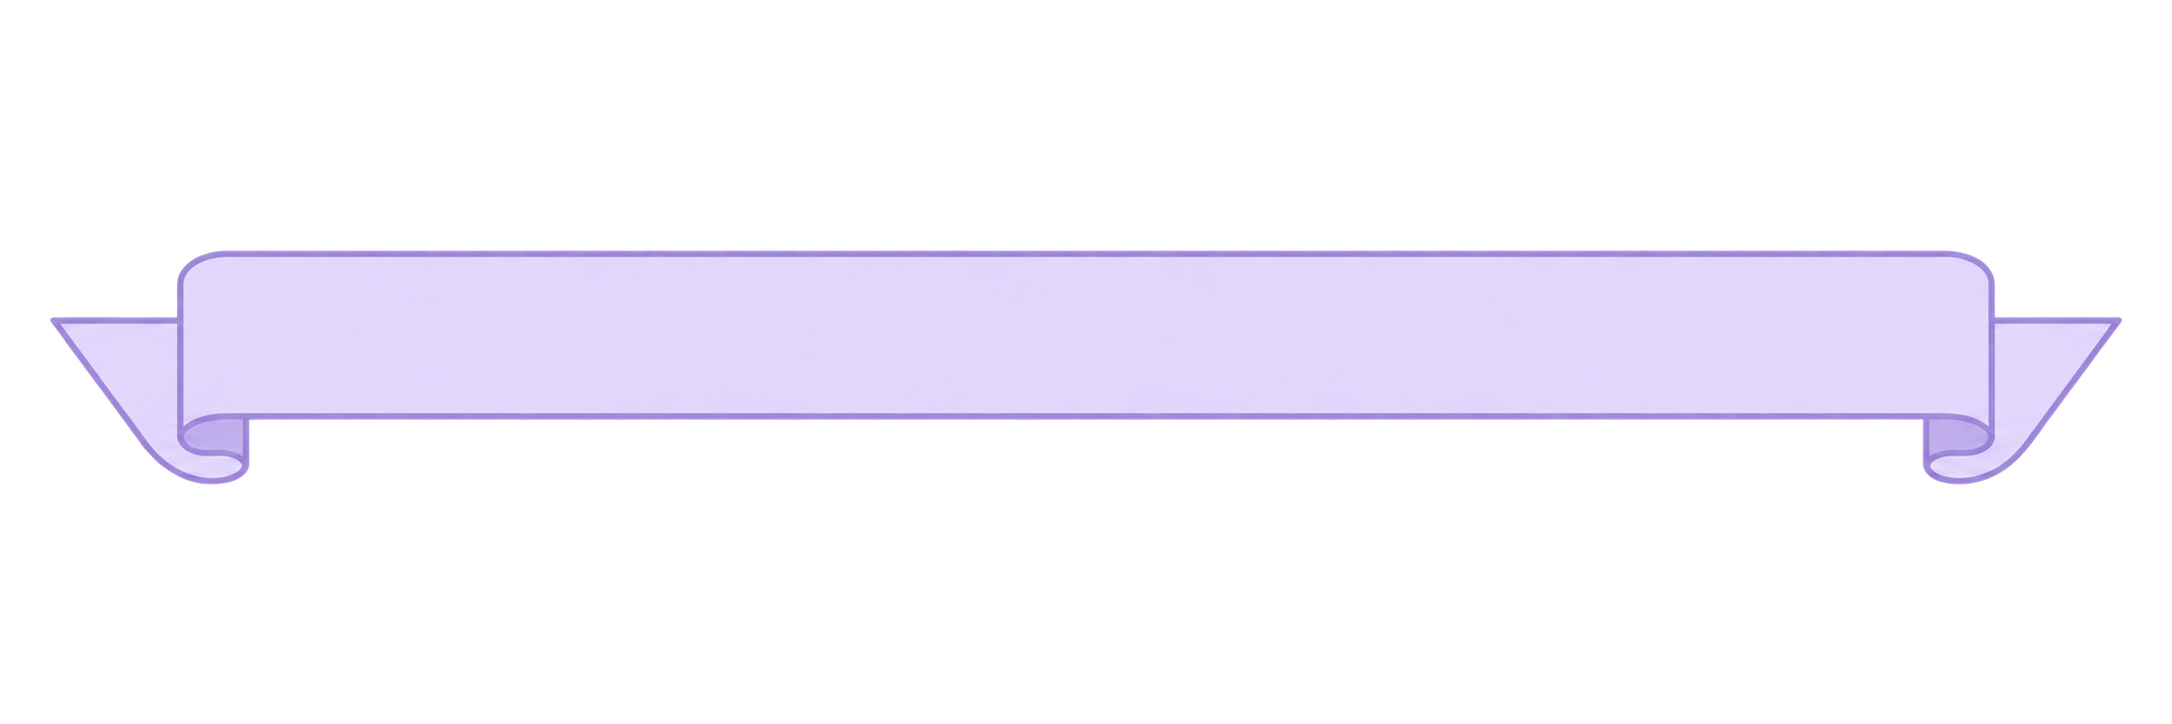
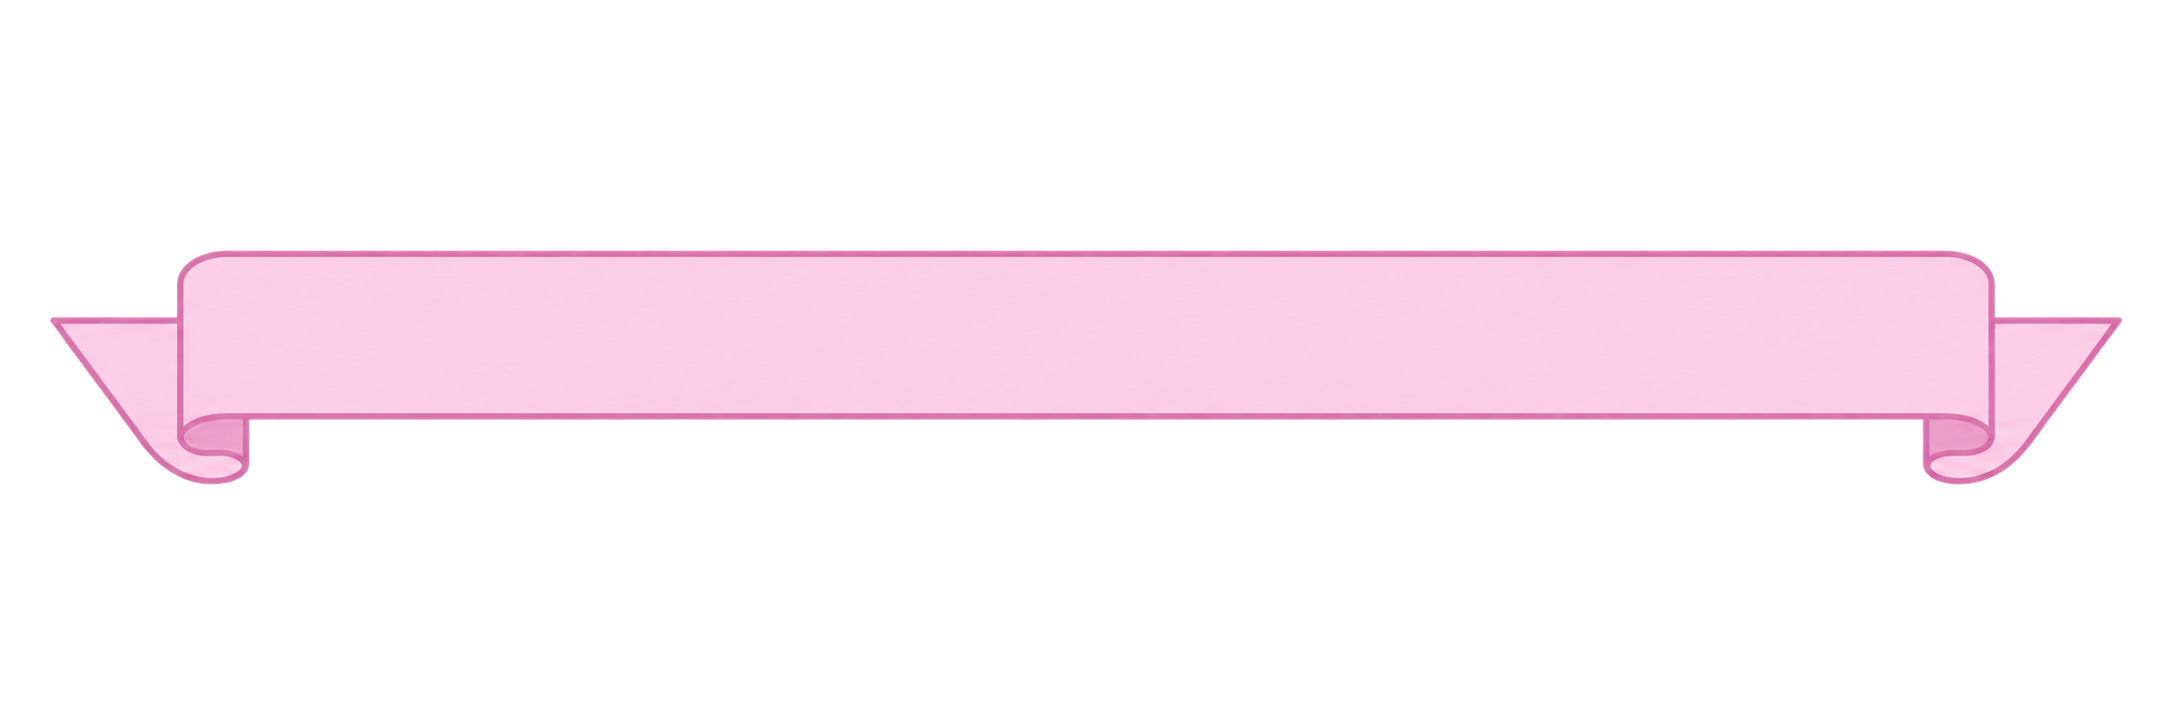
Match the reserved ribbon to the pink Reserve button

Changed region(s): [[0.0, 0.3343, 0.9871, 0.6685]]

diff --git a/apps/native/components/items/item-ribbon.tsx b/apps/native/components/items/item-ribbon.tsx
@@ -18,7 +18,7 @@ const PURCHASED_RIBBON = require("@/assets/images/ribbons/purchased.png");
 
 const RIBBON_ANGLE = "-38deg";
 const SPARKLE_COUNT = 12;
-const RESERVED_SPARKLES = ["#8B5CF6", "#C4B5FD", "#FFD166", "#FFFFFF"];
+const RESERVED_SPARKLES = ["#E052A0", "#F6B8D8", "#FFD166", "#FFFFFF"];
 const PURCHASED_SPARKLES = ["#34D399", "#A7F3D0", "#FFD166", "#FFFFFF"];
 
 export type ItemRibbonPhase = "static" | "enter" | "exit";
@@ -183,7 +183,7 @@ export function ItemRibbon({
               minimumFontScale={0.7}
               className={cn(
                 "text-center font-bold uppercase",
-                purchased ? "text-[#245B45]" : "text-[#654098]",
+                purchased ? "text-[#245B45]" : "text-[#8F1F63]",
                 isStamp ? "text-sm" : "tracking-wide",
                 !isStamp && (isDetail ? "text-lg" : "text-sm"),
               )}
